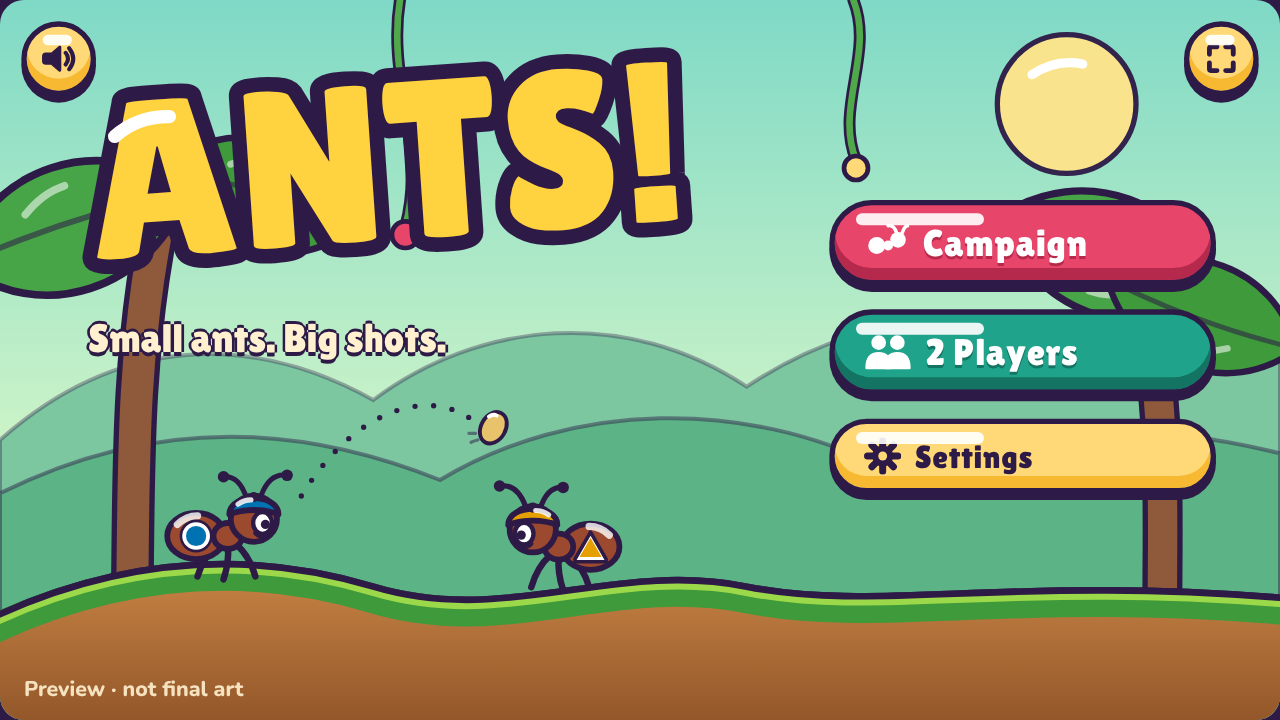
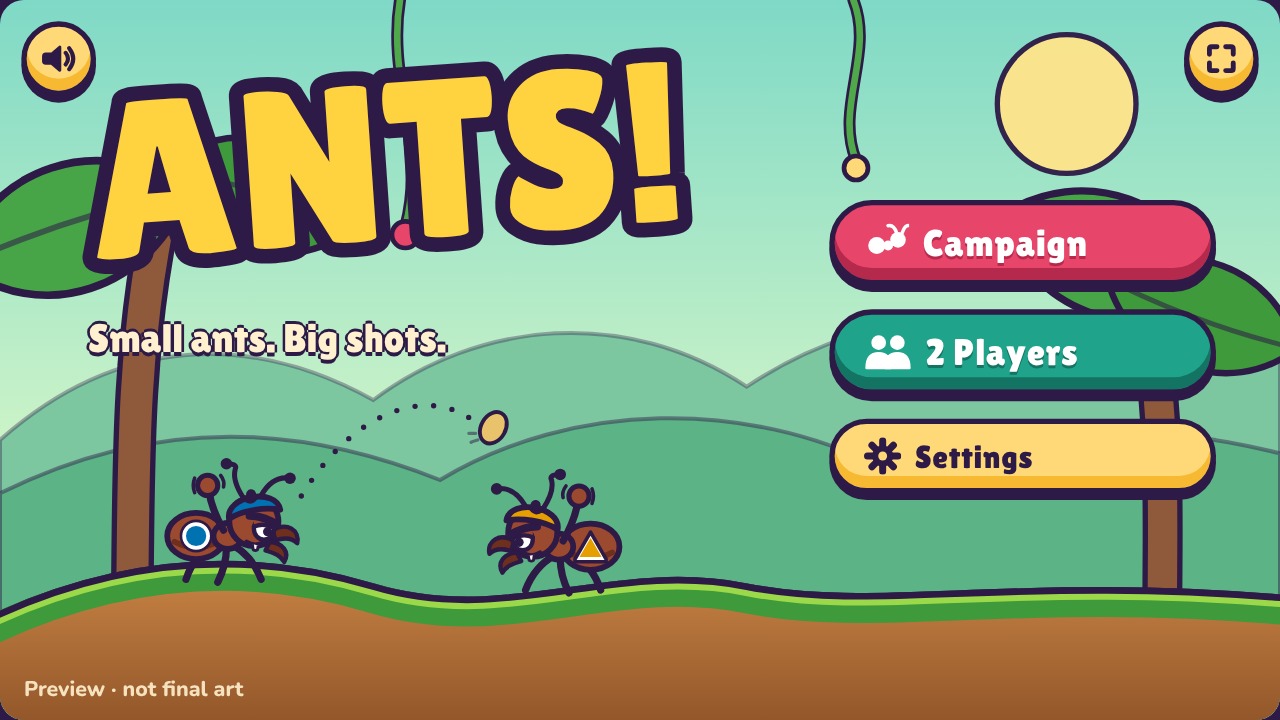
Checkpoint A rev 2: remove white glints, rowdier ants (DR-003a, DR-005)
Claude-Session: https://claude.ai/code/session_01MKXPHbSKZY5jit1FoDFsFH

diff --git a/preview/ui-preview.html b/preview/ui-preview.html
@@ -68,13 +68,10 @@ html,body{height:100%;background:var(--color-ink);overflow:hidden;overscroll-beh
   font-family:var(--font-display);font-size:var(--text-label);letter-spacing:.5px;cursor:pointer;
   box-shadow:inset 0 -9px 0 var(--j-shade,var(--color-action-shade)),0 var(--btn-drop) 0 var(--color-ink);
   text-shadow:0 2px 0 var(--j-shade,var(--color-action-shade));transition:transform 60ms ease-out,box-shadow 60ms ease-out}
-.jelly::before{content:"";position:absolute;top:6px;left:16px;width:34%;height:9px;border-radius:999px;
-  background:var(--color-glint);opacity:.9}
 .jelly:active,.jelly.pressed{transform:translateY(4px);box-shadow:inset 0 -6px 0 var(--j-shade,var(--color-action-shade)),0 1px 0 var(--color-ink)}
 .jelly.info{--j-bg:var(--color-info);--j-shade:var(--color-info-shade)}
 .jelly.second{--j-bg:var(--color-secondary);--j-shade:var(--color-secondary-shade);--j-fg:var(--color-ink);text-shadow:none}
 .jelly.round{padding:0;width:var(--btn-h)}
-.jelly.round::before{left:12px;width:22px;height:8px}
 .jelly svg{flex:none}
 .jelly.disabled{--j-bg:var(--color-locked);--j-shade:#8E869C;--j-fg:#5b5266;text-shadow:none}
 
@@ -126,7 +123,6 @@ html,body{height:100%;background:var(--color-ink);overflow:hidden;overscroll-beh
 .firewrap{position:absolute;right:18px;bottom:14px;width:124px;height:124px}
 .firewrap svg{position:absolute;inset:0}
 .fire{position:absolute;left:14px;top:14px;width:var(--fire-size);height:var(--fire-size);border-radius:50%;padding:0;font-size:30px}
-.fire::before{left:20px;top:12px;width:36px;height:12px}
 
 /* ===== Level select ===== */
 #levels .head{position:absolute;top:14px;left:0;right:0;display:flex;justify-content:center;align-items:center;gap:14px}
@@ -134,7 +130,6 @@ html,body{height:100%;background:var(--color-ink);overflow:hidden;overscroll-beh
 .node{position:absolute;width:var(--node-size);height:var(--node-size);border-radius:50%;border:var(--outline) solid var(--color-ink);
   display:grid;place-items:center;font-family:var(--font-display);font-size:28px;color:#fff;transform:translate(-50%,-50%);
   box-shadow:inset 0 -8px 0 rgba(46,26,71,.28),0 5px 0 var(--color-ink);text-shadow:0 2px 0 rgba(46,26,71,.45);cursor:pointer}
-.node::before{content:"";position:absolute;top:7px;left:13px;width:22px;height:8px;border-radius:999px;background:#fff;opacity:.9}
 .node.done{background:var(--prim-leaf-600)}
 .node.cur{background:var(--color-action)}
 .node.cur::after{content:"";position:absolute;inset:-14px;border-radius:50%;border:5px solid var(--color-panel);
@@ -191,14 +186,14 @@ html,body{height:100%;background:var(--color-ink);overflow:hidden;overscroll-beh
     <symbol id="leaf" viewBox="-4 -36 132 72" overflow="visible">
       <path d="M0,0 C28,-44 92,-44 124,0 C92,44 28,44 0,0 Z" fill="var(--lf,#3E9A3A)" stroke="#2E1A47" stroke-width="4" stroke-linejoin="round"/>
       <path d="M4,0 Q62,-6 118,0" fill="none" stroke="#2E1A47" stroke-width="3" stroke-linecap="round" opacity=".55"/>
-      <path d="M40,-14 Q52,-22 64,-22" fill="none" stroke="#fff" stroke-width="4" stroke-linecap="round" opacity=".55"/>
+      
     </symbol>
 
     <!-- Jungle backdrop (DR-001 Flash vector: bold ink, flat fills, rim light) -->
     <symbol id="jungle" viewBox="0 0 960 540">
       <rect width="960" height="540" fill="url(#g-sky)"/>
       <circle cx="800" cy="78" r="52" fill="#FFE58A" stroke="#2E1A47" stroke-width="4" opacity=".95"/>
-      <path d="M774,56 Q792,44 812,48" stroke="#fff" stroke-width="7" fill="none" stroke-linecap="round"/>
+      
       <path d="M0,330 C90,250 190,250 280,300 C360,240 470,230 560,290 C650,230 760,220 860,280 C910,260 940,262 960,270 L960,540 L0,540 Z"
             fill="#7CC7A0" stroke="#2E1A47" stroke-width="3" stroke-opacity=".35"/>
       <path d="M0,370 C120,310 230,320 330,360 C430,300 560,300 660,350 C760,310 880,320 960,340 L960,540 L0,540 Z"
@@ -223,23 +218,40 @@ html,body{height:100%;background:var(--color-ink);overflow:hidden;overscroll-beh
 
     <!-- Ant core: body uses --team for the acorn-cap helmet -->
     <symbol id="ant-core" viewBox="0 0 96 84" overflow="visible">
-      <g fill="none" stroke="#2E1A47" stroke-width="4.5" stroke-linecap="round">
-        <path d="M40,54 Q30,62 26,76"/><path d="M47,55 Q48,66 44,78"/><path d="M53,54 Q62,62 66,76"/>
+      <!-- rowdy: wide stance, shaking fist, dented tilted cap, scowl, big mandibles, chipped tooth grin (DR-005) -->
+      <g fill="none" stroke="#2E1A47" stroke-width="5" stroke-linecap="round">
+        <path d="M38,54 Q24,60 18,78"/><path d="M46,56 Q46,68 40,80"/><path d="M50,54 Q64,62 70,78"/>
       </g>
       <ellipse cx="25" cy="48" rx="20" ry="16" fill="#9C4A2F" stroke="#2E1A47" stroke-width="4"/>
-      <path d="M12,40 Q18,34 26,34" stroke="#fff" stroke-width="5" fill="none" stroke-linecap="round" opacity=".8"/>
+      <path d="M10,52 Q25,60 40,52" fill="none" stroke="#6E2F1C" stroke-width="4" stroke-linecap="round"/>
       <ellipse cx="47" cy="48" rx="10" ry="9" fill="#9C4A2F" stroke="#2E1A47" stroke-width="4"/>
       <g fill="none" stroke="#2E1A47" stroke-width="3.5" stroke-linecap="round">
-        <path d="M60,22 Q55,6 44,7"/><path d="M70,20 Q76,4 88,6"/>
+        <path d="M58,22 Q50,10 52,2 Q54,-2 46,-2"/><path d="M70,20 Q78,6 90,8"/>
       </g>
-      <circle cx="44" cy="7" r="4" fill="#2E1A47"/><circle cx="88" cy="6" r="4" fill="#2E1A47"/>
-      <circle cx="65" cy="36" r="16" fill="#9C4A2F" stroke="#2E1A47" stroke-width="4"/>
-      <path d="M48,33 C48,18 82,18 82,33 C72,29 58,29 48,33 Z" fill="var(--team)" stroke="#2E1A47" stroke-width="4" stroke-linejoin="round"/>
-      <circle cx="65" cy="21" r="3.5" fill="#2E1A47"/>
-      <path d="M54,26 Q58,23 63,23" stroke="#fff" stroke-width="3.5" fill="none" stroke-linecap="round" opacity=".85"/>
-      <ellipse cx="71" cy="39" rx="6.5" ry="7.5" fill="#fff" stroke="#2E1A47" stroke-width="3"/>
-      <circle cx="73" cy="40" r="3.2" fill="#2E1A47"/>
-      <path d="M66,46 Q71,51 77,45" stroke="#2E1A47" stroke-width="3" fill="none" stroke-linecap="round"/>
+      <circle cx="46" cy="-2" r="4" fill="#2E1A47"/><circle cx="90" cy="8" r="4" fill="#2E1A47"/>
+      <circle cx="65" cy="38" r="17" fill="#9C4A2F" stroke="#2E1A47" stroke-width="4"/>
+      <!-- mandibles -->
+      <path d="M78,44 C88,38 97,44 95,53 C91,49 86,49 80,51 Z" fill="#6E2F1C" stroke="#2E1A47" stroke-width="3" stroke-linejoin="round"/>
+      <path d="M76,52 C85,53 90,59 86,66 C83,61 79,60 73,58 Z" fill="#6E2F1C" stroke="#2E1A47" stroke-width="3" stroke-linejoin="round"/>
+      <!-- tilted acorn-cap helmet (team colour) with a dent -->
+      <g transform="rotate(-10 65 30)">
+        <path d="M47,33 C47,17 83,17 83,33 C73,29 57,29 47,33 Z" fill="var(--team)" stroke="#2E1A47" stroke-width="4" stroke-linejoin="round"/>
+        <path d="M60,22 Q64,26 68,22" fill="none" stroke="#2E1A47" stroke-width="2.5" stroke-linecap="round"/>
+        <circle cx="65" cy="19" r="3.5" fill="#2E1A47"/>
+      </g>
+      <!-- half-lidded eye + angry brow -->
+      <ellipse cx="72" cy="43" rx="7" ry="7.5" fill="#fff" stroke="#2E1A47" stroke-width="3"/>
+      <path d="M65,41 Q72,38 79,42 L79,36 L65,36 Z" fill="#9C4A2F"/>
+      <path d="M65,41.5 Q72,38.5 79,42.5" fill="none" stroke="#2E1A47" stroke-width="3" stroke-linecap="round"/>
+      <circle cx="74.5" cy="45" r="3.2" fill="#2E1A47"/>
+      <path d="M62,34 Q71,34 81,40" fill="none" stroke="#2E1A47" stroke-width="5.5" stroke-linecap="round"/>
+      <!-- smirk with tooth -->
+      <path d="M60,52 Q66,56 72,52" fill="none" stroke="#2E1A47" stroke-width="3" stroke-linecap="round"/>
+      <path d="M64,53.6 L64.5,57.5 Q66,58.5 67.5,57.5 L68,54.5" fill="#fff" stroke="#2E1A47" stroke-width="2" stroke-linejoin="round"/>
+      <!-- raised fist -->
+      <path d="M44,44 Q36,30 34,18" fill="none" stroke="#2E1A47" stroke-width="5" stroke-linecap="round"/>
+      <circle cx="33" cy="13" r="7" fill="#9C4A2F" stroke="#2E1A47" stroke-width="3.5"/>
+      <path d="M24,8 Q22,13 24,18 M42,6 Q45,10 44,14" fill="none" stroke="#2E1A47" stroke-width="2.5" stroke-linecap="round"/>
     </symbol>
     <!-- Team badges: shape + color (colorblind-safe, DR-003) -->
     <symbol id="badge-a" viewBox="-12 -12 24 24"><circle r="8.5" fill="var(--prim-blue-500,#0072B2)" stroke="#fff" stroke-width="3"/><circle r="10.5" fill="none" stroke="#2E1A47" stroke-width="1.8"/></symbol>
@@ -248,9 +260,9 @@ html,body{height:100%;background:var(--color-ink);overflow:hidden;overscroll-beh
     <symbol id="ant-b" viewBox="0 0 96 84" overflow="visible"><g style="--team:#E69F00"><use href="#ant-core"/></g><use href="#badge-b" x="13" y="36" width="24" height="24"/></symbol>
 
     <!-- Weapon icons (DR-002) -->
-    <symbol id="w-seed" viewBox="0 0 48 48"><ellipse cx="24" cy="25" rx="11" ry="15" transform="rotate(30 24 25)" fill="#E9C36B" stroke="#2E1A47" stroke-width="3.5"/><path d="M20,15 Q24,12 27,14" stroke="#fff" stroke-width="3.5" fill="none" stroke-linecap="round"/><path d="M8,30 Q4,30 2,30 M10,36 Q6,37 4,38" stroke="#2E1A47" stroke-width="3" stroke-linecap="round" opacity=".5"/></symbol>
-    <symbol id="w-dew" viewBox="0 0 48 48"><path d="M24,5 C30,16 38,22 38,31 C38,39 31,44 24,44 C17,44 10,39 10,31 C10,22 18,16 24,5 Z" fill="#7FD4F2" stroke="#2E1A47" stroke-width="3.5" stroke-linejoin="round"/><circle cx="20" cy="30" r="3.4" fill="#fff" stroke="#2E1A47" stroke-width="2"/><circle cx="29" cy="30" r="3.4" fill="#fff" stroke="#2E1A47" stroke-width="2"/><circle cx="20.6" cy="30.6" r="1.5" fill="#2E1A47"/><circle cx="29.6" cy="30.6" r="1.5" fill="#2E1A47"/><path d="M16,20 Q18,16 21,14" stroke="#fff" stroke-width="3.5" fill="none" stroke-linecap="round"/></symbol>
-    <symbol id="w-pollen" viewBox="0 0 48 48"><g fill="#FFD23F" stroke="#2E1A47" stroke-width="3"><circle cx="24" cy="14" r="8"/><circle cx="34" cy="22" r="8"/><circle cx="30" cy="34" r="8"/><circle cx="18" cy="34" r="8"/><circle cx="14" cy="22" r="8"/></g><circle cx="24" cy="25" r="7" fill="#F7A21B" stroke="#2E1A47" stroke-width="3"/><path d="M20,11 Q22,9 25,9" stroke="#fff" stroke-width="3" fill="none" stroke-linecap="round"/></symbol>
+    <symbol id="w-seed" viewBox="0 0 48 48"><ellipse cx="24" cy="25" rx="11" ry="15" transform="rotate(30 24 25)" fill="#E9C36B" stroke="#2E1A47" stroke-width="3.5"/><path d="M8,30 Q4,30 2,30 M10,36 Q6,37 4,38" stroke="#2E1A47" stroke-width="3" stroke-linecap="round" opacity=".5"/></symbol>
+    <symbol id="w-dew" viewBox="0 0 48 48"><path d="M24,5 C30,16 38,22 38,31 C38,39 31,44 24,44 C17,44 10,39 10,31 C10,22 18,16 24,5 Z" fill="#7FD4F2" stroke="#2E1A47" stroke-width="3.5" stroke-linejoin="round"/><circle cx="20" cy="30" r="3.4" fill="#fff" stroke="#2E1A47" stroke-width="2"/><circle cx="29" cy="30" r="3.4" fill="#fff" stroke="#2E1A47" stroke-width="2"/><circle cx="20.6" cy="30.6" r="1.5" fill="#2E1A47"/><circle cx="29.6" cy="30.6" r="1.5" fill="#2E1A47"/></symbol>
+    <symbol id="w-pollen" viewBox="0 0 48 48"><g fill="#FFD23F" stroke="#2E1A47" stroke-width="3"><circle cx="24" cy="14" r="8"/><circle cx="34" cy="22" r="8"/><circle cx="30" cy="34" r="8"/><circle cx="18" cy="34" r="8"/><circle cx="14" cy="22" r="8"/></g><circle cx="24" cy="25" r="7" fill="#F7A21B" stroke="#2E1A47" stroke-width="3"/></symbol>
 
     <symbol id="acorn" viewBox="0 0 24 26"><path d="M5,11 C5,20 9,24 12,24 C15,24 19,20 19,11 Z" fill="#C98545" stroke="#2E1A47" stroke-width="2.5" stroke-linejoin="round"/><path d="M3,11 C3,5 21,5 21,11 C15,9.5 9,9.5 3,11 Z" fill="#7A4A22" stroke="#2E1A47" stroke-width="2.5" stroke-linejoin="round"/><path d="M12,6 Q12,3 14,2" stroke="#2E1A47" stroke-width="2.5" fill="none" stroke-linecap="round"/></symbol>
     <symbol id="acorn-off" viewBox="0 0 24 26"><path d="M5,11 C5,20 9,24 12,24 C15,24 19,20 19,11 Z" fill="#FFF1D0" stroke="#2E1A47" stroke-width="2.5" stroke-linejoin="round" opacity=".9"/><path d="M3,11 C3,5 21,5 21,11 C15,9.5 9,9.5 3,11 Z" fill="#D9CDB0" stroke="#2E1A47" stroke-width="2.5" stroke-linejoin="round"/></symbol>
@@ -289,7 +301,7 @@ html,body{height:100%;background:var(--color-ink);overflow:hidden;overscroll-beh
     <!-- LOGO -->
     <g transform="translate(60,46) rotate(-4)">
       <text x="0" y="150" font-family="Lilita One, Arial Rounded MT Bold, sans-serif" font-size="168" fill="#FFD23F" stroke="#2E1A47" stroke-width="22" stroke-linejoin="round" paint-order="stroke" letter-spacing="2">ANTS!</text>
-      <path d="M22,58 Q40,44 64,46" stroke="#fff" stroke-width="10" fill="none" stroke-linecap="round"/>
+      
     </g>
   </svg>
   <div class="tag">Small ants. Big shots.</div>
@@ -360,7 +372,7 @@ html,body{height:100%;background:var(--color-ink);overflow:hidden;overscroll-beh
         <path d="M64,64 L92,28" stroke="#E8456B" stroke-width="8" stroke-linecap="round"/>
         <circle cx="64" cy="64" r="9" fill="#2E1A47"/>
         <circle cx="94" cy="26" r="14" fill="#E8456B" stroke="#2E1A47" stroke-width="4"/>
-        <path d="M88,21 Q91,18 95,18" stroke="#fff" stroke-width="3.5" fill="none" stroke-linecap="round"/>
+        
         <text x="64" y="104" text-anchor="middle" font-family="Lilita One, sans-serif" font-size="28" fill="#2E1A47">52°</text>
       </svg>
     </div>
@@ -450,7 +462,7 @@ html,body{height:100%;background:var(--color-ink);overflow:hidden;overscroll-beh
         <path d="M430,-10 L440,150 C442,180 420,200 400,214 C376,232 380,276 420,284 L740,296 C790,298 800,256 770,236 C730,210 690,170 680,120 L660,-10 Z" fill="#E8456B"/>
         <path d="M392,268 C390,290 406,302 430,302 L752,312 C786,312 796,296 790,276 C700,284 500,282 392,268 Z" fill="#FFF1D0"/>
         <path d="M470,150 Q540,140 600,160 M480,120 Q545,108 610,130 M490,90 Q550,78 615,98" fill="none" stroke-width="7"/>
-        <path d="M440,230 Q480,214 520,226" fill="none" stroke="#fff" stroke-width="8" opacity=".85"/>
+        
       </g>
       <!-- motion lines -->
       <g stroke="#2E1A47" stroke-width="5" stroke-linecap="round" opacity=".6"><path d="M360,90 Q380,92 396,90"/><path d="M350,140 Q372,142 392,138"/><path d="M800,180 Q818,176 836,178"/></g>

diff --git a/docs/DECISIONS.md b/docs/DECISIONS.md
@@ -37,7 +37,8 @@ Nothing appears in UI.md or PLAN.md without a Decision ID. Builder deviations ar
 - **Question:** What visual language does the UI use over the DR-001 world?
 - **Options:** (A) jelly candy buttons (thick plum outline, flat shade band, one hard curved glint) · (B) leaf/bark natural panels · (C) die-cut sticker/badge UI
 - **Debate (haiku, 3 rounds):** GD argued that bark hides the wind readout and jelly pops. AD argued that stickers' white borders clutter a 540 px-tall canvas, and that the plum outline ties the UI to the world's ink. TL noted that jelly is nine-sliced flat fills with a tiny atlas and no textures.
-- **Winner:** (A) Jelly candy UI. Its anti-generic rule: one hard-edged curved glint per control and a flat shade band, never a soft gradient sheen.
+- **Winner:** (A) Jelly candy UI: thick plum outline, a flat shade band along the bottom edge, and a solid plum drop shadow. No gradient sheen.
+- **Amended by DR-003a:** the white glint streaks are removed.
 - **Palette direction (finalised in UI.md):** plum ink `#2E1A47`, butter panel `#FFF1D0`, raspberry action `#E8456B`, Team Blue `#0072B2` + **circle** badge, Team Amber `#E69F00` + **rounded triangle** badge (Okabe-Ito, colorblind-safe), teal info `#1FA38A` (always paired with an arrow shape), glint `#FFFFFF`.
 - **Fonts:** Lilita One (display, SIL OFL 1.1) + Nunito (body, SIL OFL 1.1), both from Google Fonts. Display text in-canvas is baked to a bitmap font.
 - **Layout seeds:** touch targets ≥ 48 px logical (56 preferred); FIRE 96 px bottom-right; aim pad bottom-left; wind and turn banner top-center, never under a thumb.
@@ -51,3 +52,21 @@ Nothing appears in UI.md or PLAN.md without a Decision ID. Builder deviations ar
 - **Debate:** GD: the brief says 3.x, so go with 3.x. AD: no visual difference for flat vector atlases. TL: 3.90.0 is the final, mature 3.x release with broad examples. Phaser 4 is a renderer rewrite, so it is outside scope unless the user asks.
 - **Winner:** Phaser **3.90.0**, pinned exactly.
 - **Revisit if:** the user asks to migrate to Phaser 4.
+
+## DR-003a · Remove white glint streaks (user edit, checkpoint A review)
+- **Question:** Keep the white curved glint on buttons and art, replace it, or drop it?
+- **Options:** (1) keep · (2) replace with another accent (e.g. a dotted stitch or a darker inner rim) · (3) drop it, keeping the shade band and drop shadow
+- **Debate:** GD: the glints add noise over the readouts and the eye goes to them first. AD: the shade band plus the plum drop already says "jelly", and a second accent would be decoration for its own sake. TL: one less layer per nine-slice and per sprite.
+- **Winner:** (3) Drop all decorative white highlights on UI, ants, leaves, sun, logo and weapon icons. White stays only where it carries meaning: wind chevrons, the aim preview, badge borders, eye whites, speech bubbles.
+- **Reason:** The user found the streaks odd. Removing them also makes the HUD calmer and easier to read (pillar 2).
+- **Rejected:** keep (the user's feedback); replace (no accent earned its place yet).
+- **Revisit if:** buttons read as flat or unclickable in playtests. Then try a darker inner rim, not a white glint.
+
+## DR-005 · Ant character attitude (user edit, checkpoint A review)
+- **Question:** How do we make the fighting ants feel rowdy while staying family-friendly?
+- **Options:** (1) facial attitude only (brow, smirk) · (2) full rowdy kit: scowl, half-lidded eye, big mandibles, chipped-tooth grin, shaking raised fist, dented and tilted acorn-cap helmet, wide stance · (3) battle gear (bandanas, slings, war paint)
+- **Debate:** GD: the raised fist makes a clear silhouette, so you can read their mood even at 80 px. AD: a dented cap tilted like a bad-boy beanie gives scrappy charm, while war paint pushes them toward "soldier". TL: everything stays inside one symbol and no extra textures are needed.
+- **Winner:** (2) Full rowdy kit. Team identity stays on the cap colour plus the abdomen badge shape.
+- **Reason:** It is clearly scrappy and funny without weapons-as-props or injuries (pillar 1), and it reads at phone size.
+- **Rejected:** (1) too subtle at small sizes; (3) more militaristic and busier, and it competes with the team badge.
+- **Revisit if:** faces turn to mush at the final in-game ant size. Then drop the tooth and keep the fist, brow and mandibles.
